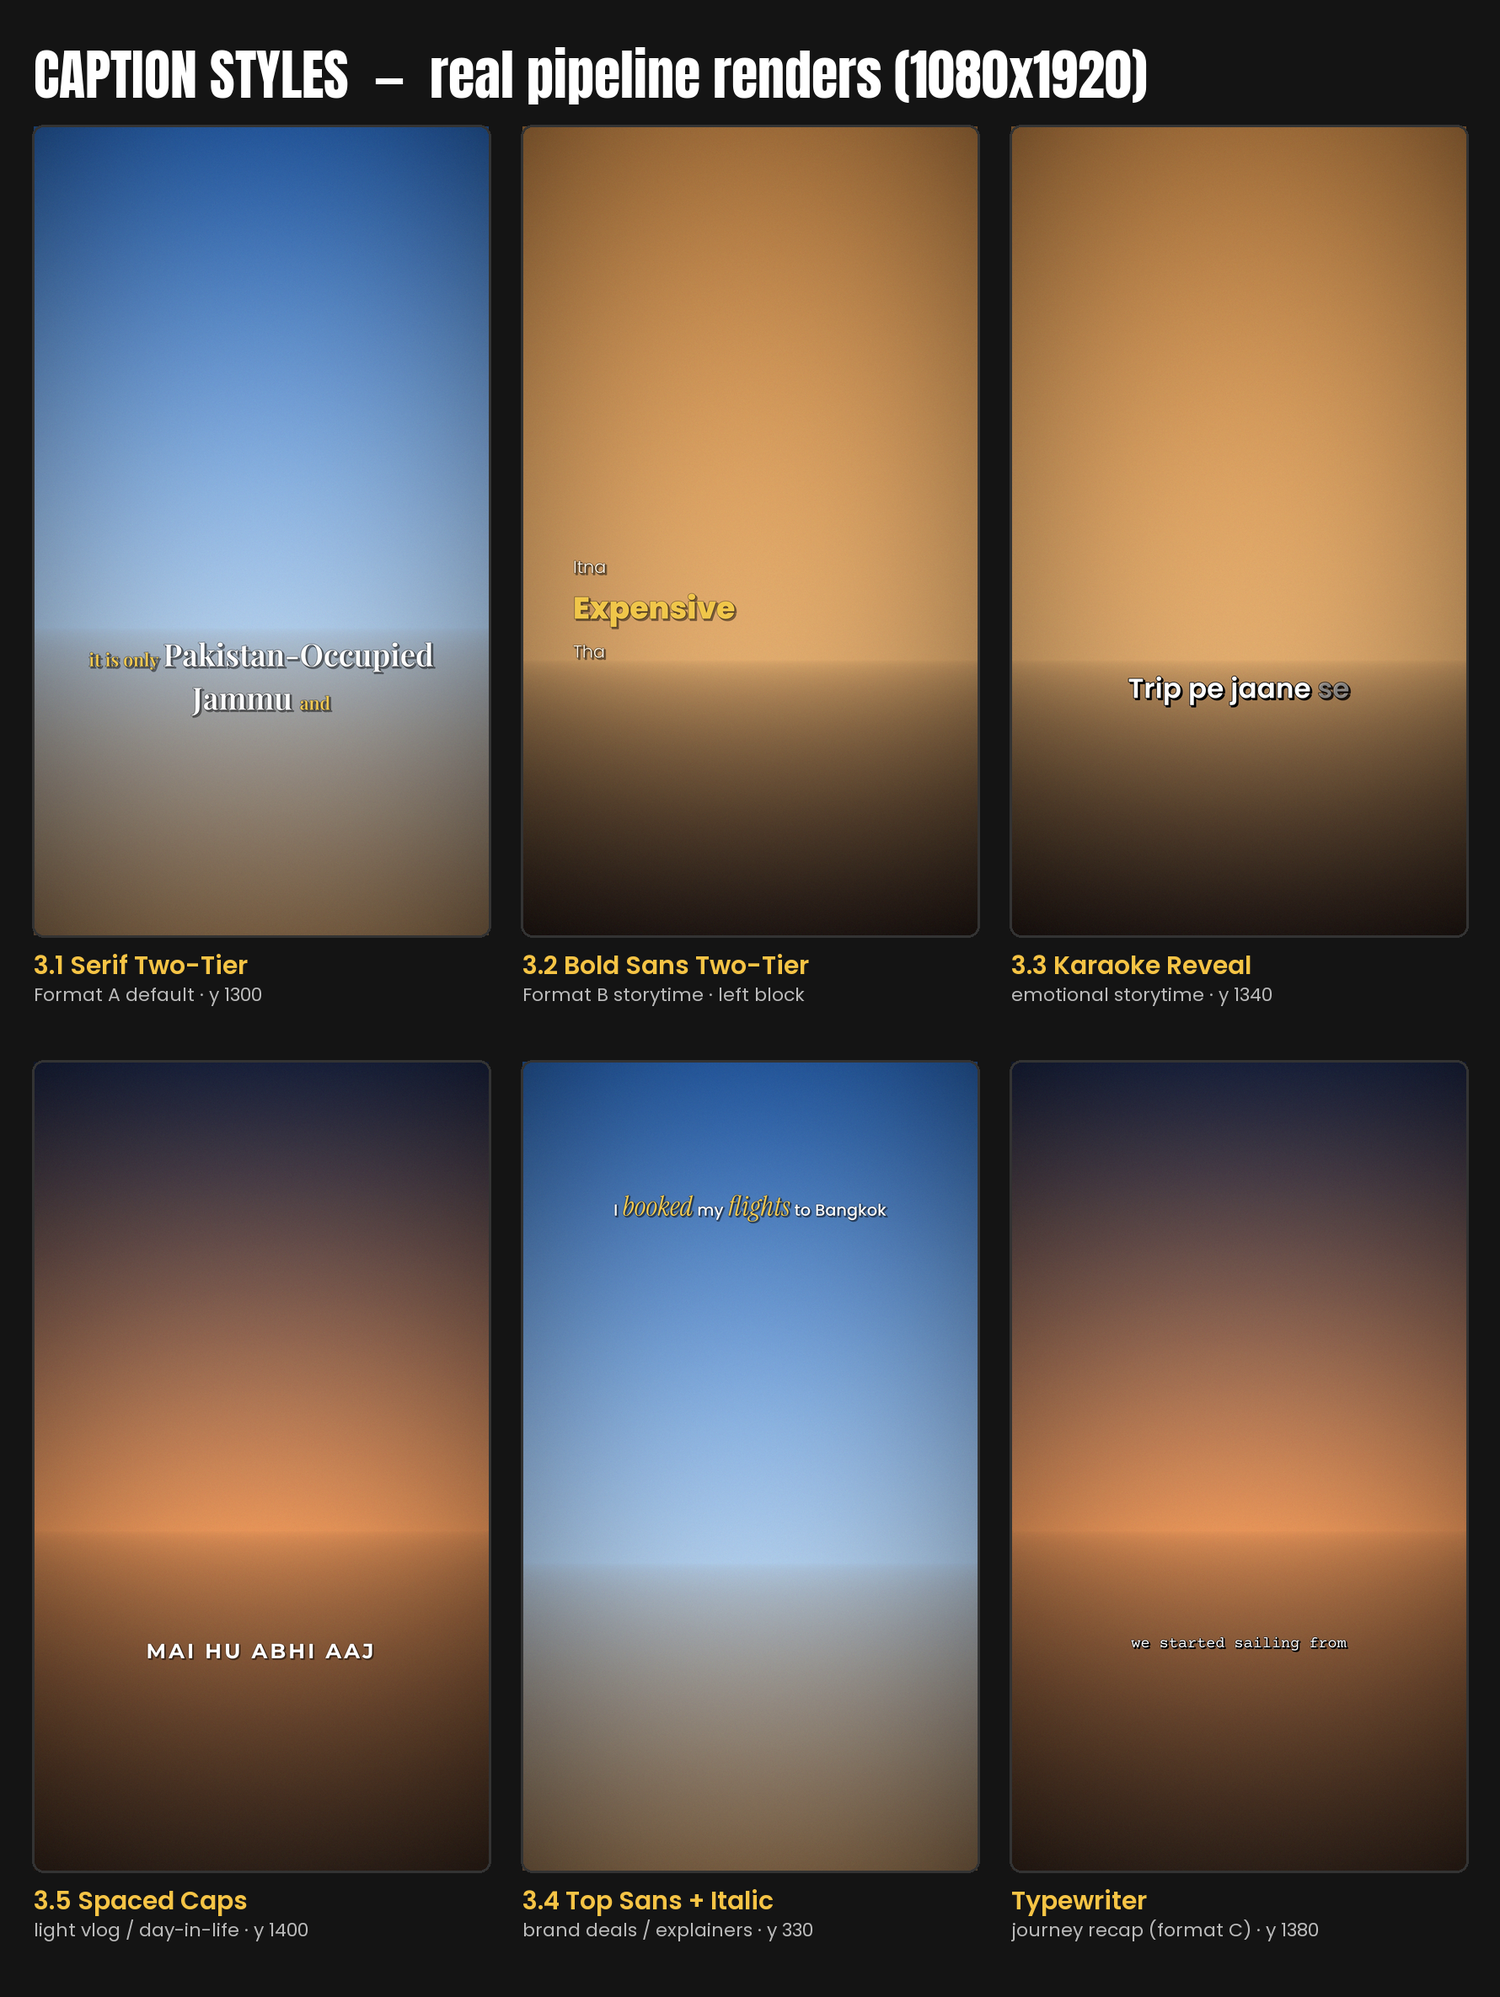
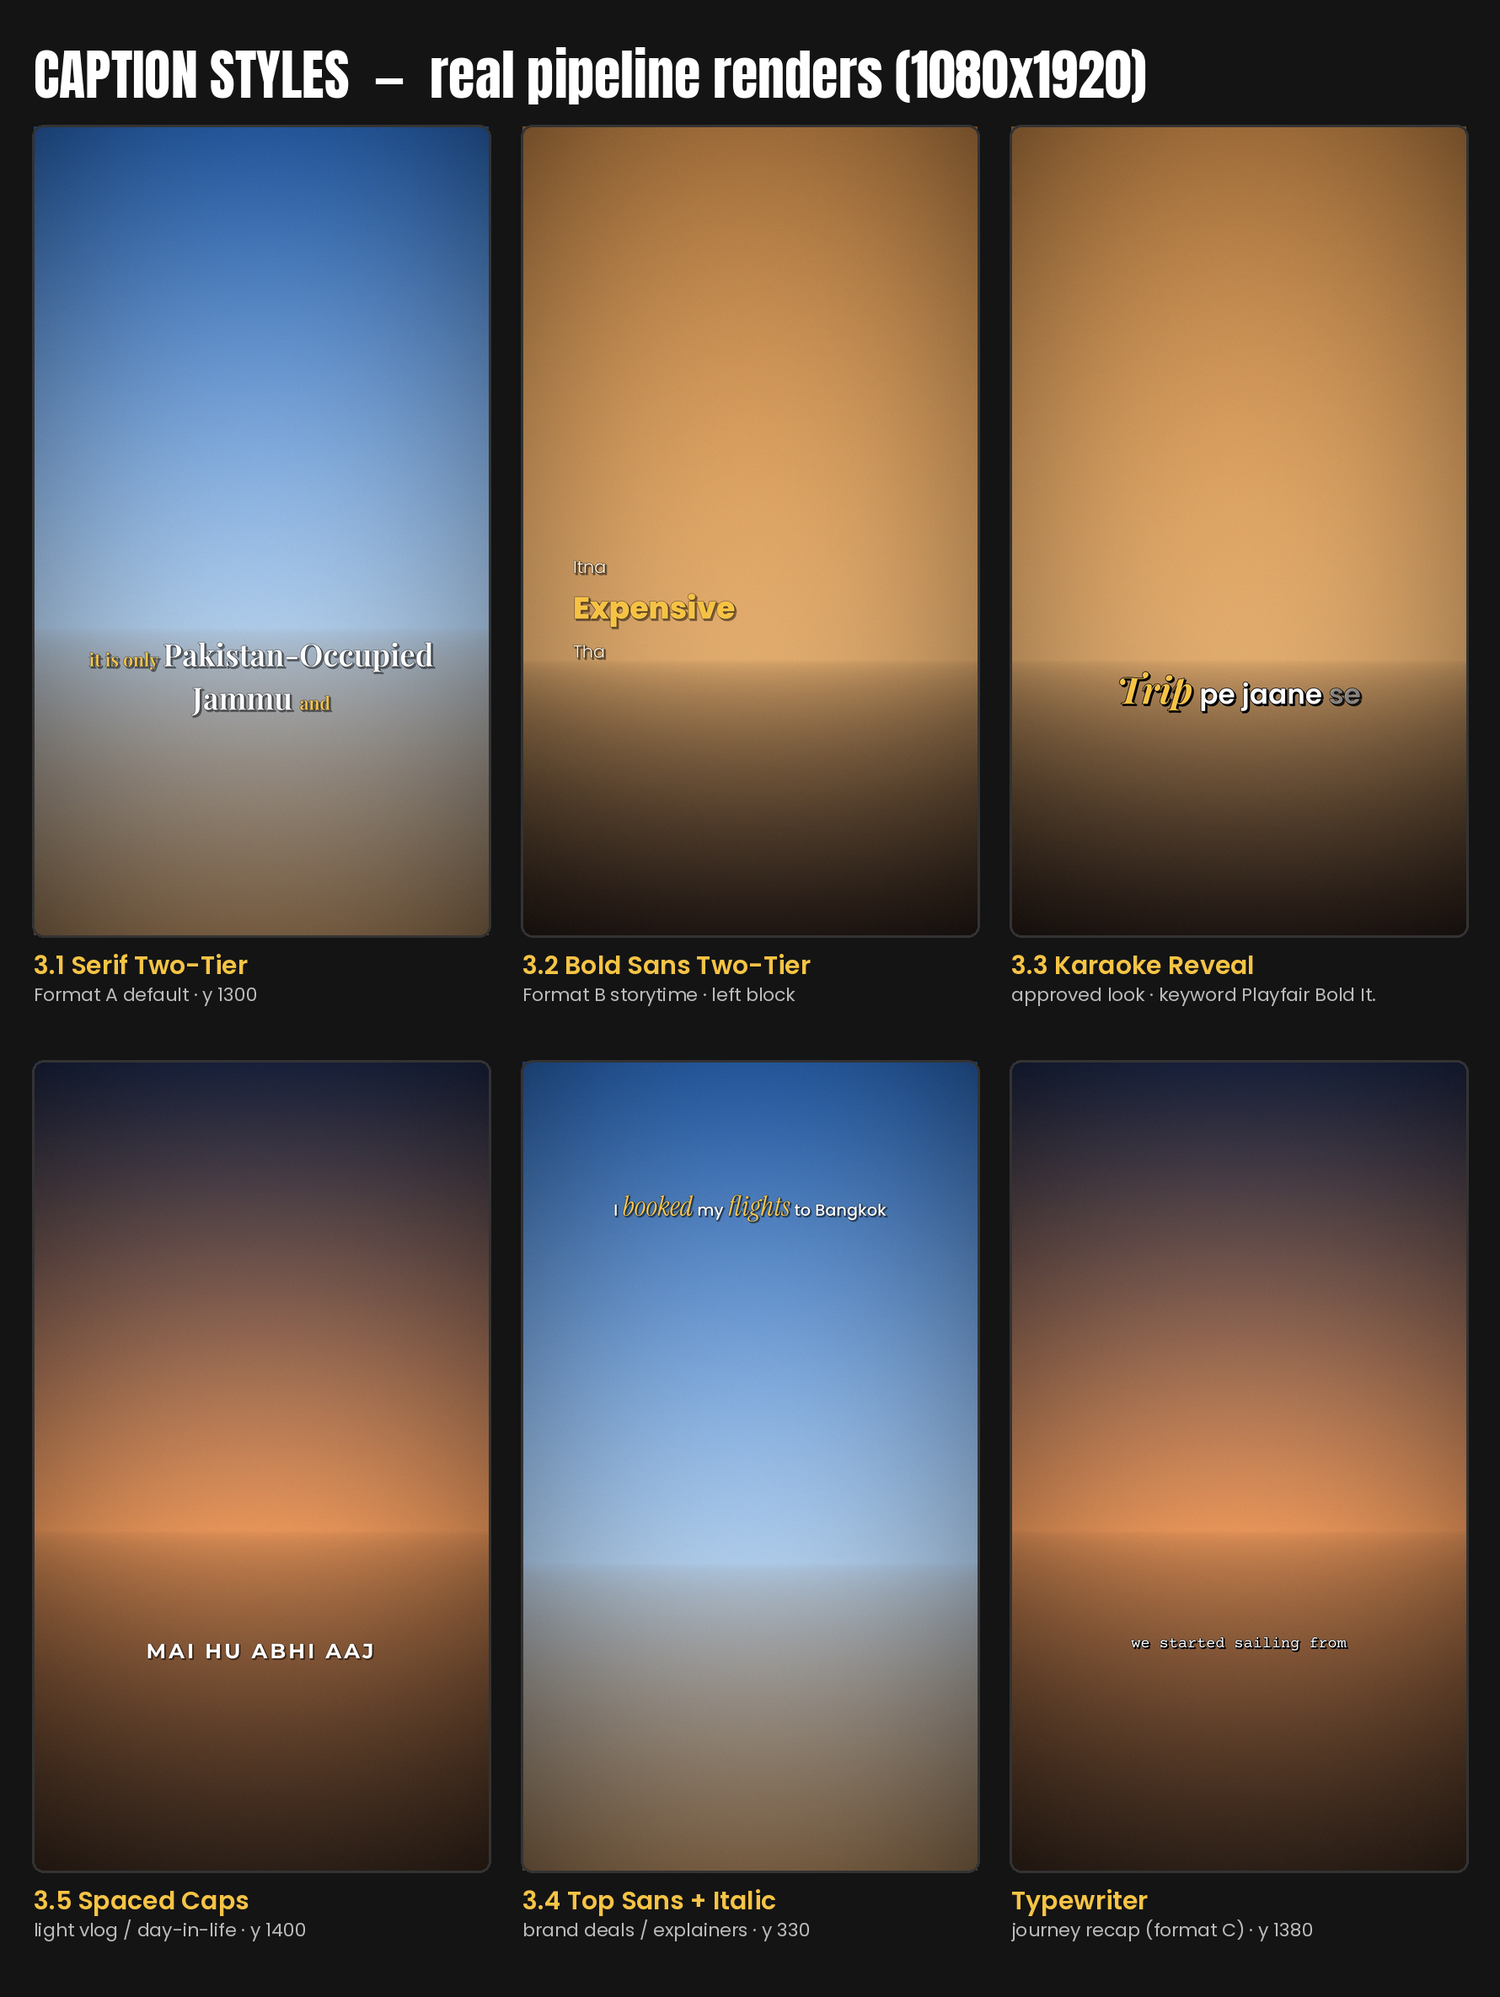
Leave Mumbai v2: smooth 'kiya kya hai' join, keyword highlights, music pulse + SFX
- take-3 clip now starts on 'aur' (20.89 s), so no clipped 'kya hai' before 'aur ye sab humein'
- karaoke keywords (emph) in Playfair Display Bold Italic marigold (pipeline; caption board updated)
- music bed gets a soft pulse and sits at -17 dB ducked; quiet whooshes on room changes, pops on chart/logo

Claude-Session: https://claude.ai/code/session_01FZ262G7aL9Z4djZ2sB29tB

diff --git a/projects/leave_mumbai/align.py b/projects/leave_mumbai/align.py
@@ -13,23 +13,23 @@ P = Path(__file__).resolve().parent
 SR, HOP = 16000, 160
 
 # raw clip -> [(phrase, voiced span start, end)] in source seconds
-# "|" = caption page break (hand-set so every page is a natural phrase)
+# "|" = caption page break (hand-set so every page is a natural phrase); *word* = keyword highlight
 SCRIPT = {
     "LM_02": [("main har roz uthke… |", 19.13, 19.90), ("yahi sochti hoon |", 19.96, 21.04), ("ki bas, |", 21.17, 21.52),
-              ("ab toh Mumbai | chhod dena chahiye. |", 22.38, 23.91)],
-    "LM_03": [("main phir bhi, | rukne ki poori koshish | karti hoon, because |", 22.98, 25.58),
-              ("it's my city, | you know, and I love it. |", 25.90, 27.48)],
-    "LM_04": [("but honestly, |", 4.56, 5.38), ("Mumbai has become |", 5.76, 6.98), ("unlivable. |", 7.21, 7.86)],
-    "LM_05": [("mangroves are being cut, | rivers are being polluted | and honestly, |", 1.35, 4.68),
-              ("aajkal koi | kisi cheez ki respect | hi nahi karta hai yaar. |", 4.81, 7.84)],
-    "LM_06": [("aur har Diwali, | pollution aur bhi | zyada badh jaata hai. |", 5.97, 8.98)],
-    "LM_07": [("13 out of | the world's 20 | most polluted cities | are in India. |", 18.56, 22.40)],
-    "LM_11": [("itna socho ki, | humne exactly kiya kya hai. |", 4.65, 6.92),
-              ("toh is saal, | meri sirf ek request hai. |", 15.85, 17.85),
-              ("aur ye sab humein | laaya kidhar hai? |", 20.56, 23.31)],
-    "LM_12": [("aur jab saans lene ki | jagah chahiye ho, |", 6.37, 8.44), ("main jungle jaati hoon, |", 8.97, 10.06),
-              ("Lost & Free Safaris |", 10.59, 11.30),     # she says "Lost & Free"; "Safaris" = brand (client ask)
-              ("ke saath, |", 11.30, 11.69), ("aap bhi chalna? |", 12.61, 13.32), ("details coming out soon. |", 13.72, 15.05)],
+              ("ab toh *Mumbai* | chhod dena chahiye. |", 22.38, 23.91)],
+    "LM_03": [("main phir bhi, | rukne ki poori *koshish* | karti hoon, because |", 22.98, 25.58),
+              ("it's my *city,* | you know, and I *love* it. |", 25.90, 27.48)],
+    "LM_04": [("but *honestly,* |", 4.56, 5.38), ("Mumbai has become |", 5.76, 6.98), ("*unlivable.* |", 7.21, 7.86)],
+    "LM_05": [("*mangroves* are being cut, | *rivers* are being polluted | and honestly, |", 1.35, 4.68),
+              ("aajkal koi | kisi cheez ki *respect* | hi nahi karta hai yaar. |", 4.81, 7.84)],
+    "LM_06": [("aur har *Diwali,* | *pollution* aur bhi | zyada badh jaata hai. |", 5.97, 8.98)],
+    "LM_07": [("*13* out of | the world's *20* | most *polluted* cities | are in *India.* |", 18.56, 22.40)],
+    "LM_11": [("itna socho ki, | humne *exactly* kiya kya hai. |", 4.65, 6.92),
+              ("toh is saal, | meri sirf ek *request* hai. |", 15.85, 17.85),
+              ("aur ye sab humein | laaya *kidhar* hai? |", 20.93, 23.31)],     # take 3 after "kya hai" (20.58-20.86)
+    "LM_12": [("aur jab *saans* lene ki | jagah chahiye ho, |", 6.37, 8.44), ("main *jungle* jaati hoon, |", 8.97, 10.06),
+              ("*Lost* *&* *Free* *Safaris* |", 10.59, 11.30),     # she says "Lost & Free"; "Safaris" = brand (client ask)
+              ("ke saath, |", 11.30, 11.69), ("aap bhi *chalna?* |", 12.61, 13.32), ("details coming out *soon.* |", 13.72, 15.05)],
 }
 SYL = {"13": 2, "20": 2, "&": 1, "Safaris": 1, "Mumbai": 2, "Diwali": 3, "unlivable": 4, "mangroves": 2,
        "pollution": 3, "polluted": 3, "exactly": 3, "honestly,": 3, "respect": 2, "request": 2, "it's": 1,
@@ -62,6 +62,8 @@ def align_clip(src, phrases):
                 brk[-1] = True
             else:
                 words.append(tk); brk.append(False)
+        emph = [w.startswith("*") and w.endswith("*") and len(w) > 1 for w in words]
+        words = [w.strip("*") if e else w for w, e in zip(words, emph)]
         f0, f1 = int(s0 * 100), int(s1 * 100)
         voiced = np.where(e[f0:f1] > floor)[0] + f0
         if len(voiced) < len(words):
@@ -75,8 +77,8 @@ def align_clip(src, phrases):
             if hi > lo:
                 starts[k] = lo + int(np.argmin(e[lo:hi]))
         ends = starts[1:] + [voiced[-1] + 1]
-        for w, br, a, b in zip(words, brk, starts, ends):
-            out.append({"text": w, "start": a / 100, "end": max(a / 100 + 0.08, b / 100 - 0.02), "br": br})
+        for w, br, em, a, b in zip(words, brk, emph, starts, ends):
+            out.append({"text": w, "start": a / 100, "end": max(a / 100 + 0.08, b / 100 - 0.02), "br": br, "emph": em})
     return out
 
 def main():
@@ -95,6 +97,8 @@ def main():
                           "end": round(acc + min(c["out"], w["end"]) - c["in"], 3)}
                     if w["br"]:
                         ww["br"] = True
+                    if w["emph"]:
+                        ww["emph"] = True
                     words.append(ww)
         acc += dur
     (P / "words.json").write_text(json.dumps(words, indent=1, ensure_ascii=False) + "\n", encoding="utf-8")

diff --git a/projects/leave_mumbai/prep.py b/projects/leave_mumbai/prep.py
@@ -170,7 +170,23 @@ def music(path, dur, t_lift):
                 pl = (np.sin(2 * np.pi * f(m) * tt2) + 0.3 * np.sin(4 * np.pi * f(m) * tt2)) * np.exp(-tt2 / 0.35) * 0.09
                 L = min(L, n - i0); out[0, i0:i0 + L] += pl[:L] * 0.8; out[1, i0:i0 + L] += pl[:L]
         t0 += bar; k += 1
-    out = sosfilt(butter(2, [60, 9000], "bandpass", fs=SR, output="sos"), out, axis=1)
+    # soft pulse so the bed doesn't feel flat: gentle kick on beats 1 and 3, a light shaker on the 8ths
+    beat = 60 / 76
+    kick_t = np.arange(int(0.35 * SR)) / SR
+    kick = np.sin(2 * np.pi * np.cumsum(55 + 70 * np.exp(-kick_t / 0.03)) / SR) * np.exp(-kick_t / 0.12) * 0.22
+    sh_n = int(0.08 * SR)
+    shaker = sosfilt(butter(2, 6500, "highpass", fs=SR, output="sos"), rng.standard_normal(sh_n)) * np.exp(-np.arange(sh_n) / SR / 0.02) * 0.035
+    tb = 0.0; kb = 0
+    while tb < dur - 0.4:
+        i0 = int(tb * SR)
+        if kb % 2 == 0:
+            L = min(len(kick), n - i0); out[:, i0:i0 + L] += kick[:L]
+        for half in (0, 0.5):
+            j0 = int((tb + half * beat) * SR); L = min(sh_n, n - j0)
+            if L > 0:
+                out[0, j0:j0 + L] += shaker[:L] * (0.7 if half else 0.5); out[1, j0:j0 + L] += shaker[:L] * (0.5 if half else 0.7)
+        tb += beat; kb += 1
+    out = sosfilt(butter(2, [45, 9000], "bandpass", fs=SR, output="sos"), out, axis=1)
     lift = np.clip((t - t_lift) / 1.5, 0, 1) * 0.35 + 0.65                                # louder after the lift
     out *= lift
     out /= np.abs(out).max() + 1e-9; out *= 0.8
@@ -192,7 +208,13 @@ def main():
     # write the overlay/sfx timing back into edit.json
     edit["overlays"] = [{"src": "build/chart.mov", "at": round(CH_IN, 3), "x": CH_X - 4, "y": CH_Y - 4},
                         {"src": "build/logo.mov", "at": round(POP_IN, 3), "x": CARD_X - 4, "y": CARD_Y - 4}]
-    edit["sfx"] = [{"src": "../../sfx_library/msg_soft_pop.mp3", "at": round(POP_IN, 3), "gain_db": -14}]
+    sfx = [{"src": "../../sfx_library/msg_soft_pop.mp3", "at": round(POP_IN, 3), "gain_db": -14},
+           {"src": "../../sfx_library/msg_soft_pop.mp3", "at": round(CH_IN, 3), "gain_db": -16}]
+    for i, c in enumerate(edit["clips"]):              # a quiet air whoosh where the room/setting changes
+        if c.get("_whoosh") and starts[i] > 0.3:
+            sfx.append({"src": "../../sfx_library/dl_2026_11/swoosh_short_wind.mp3", "at": round(starts[i] - 0.18, 3),
+                        "gain_db": -21})
+    edit["sfx"] = sfx
     (P / "edit.json").write_text(json.dumps(edit, indent=2, ensure_ascii=False) + "\n", encoding="utf-8")
     print(f"reel {acc:.2f}s · chart {CH_IN:.2f}-{CH_OUT:.2f} · logo {POP_IN:.2f}-{POP_OUT:.2f} · lift {cue['lift']:.2f}")
 

diff --git a/pipeline/isha.py b/pipeline/isha.py
@@ -465,6 +465,7 @@ SIZE = {
     "serif_key": 103, "serif_small": 60,        # iffy: "Pakistan-Occupied" = 59% width (fillers 58%)
     "sans_key": 128, "sans_small": 73,          # brinda orca: "Expensive" = 35% (fillers 57%)
     "karaoke": 115,                             # brinda 7.4M: "Trip pe Jaane se" = 50%
+    "karaoke_key": 124,                         # keyword (emph) in karaoke: Playfair Bold Italic marigold
     "caps": 77,                                 # brinda Japan: "MAI HU ABHI AAJ" = 49%
     "top": 68, "top_accent": 86,                # brinda IndiGo: "I booked my flights" = 34%
     "mono": 49,                                 # sailing 21M: "we started sailing from" = 47%
@@ -608,7 +609,12 @@ def caption_events(words, style, y=None, until=None):
             body = []
             for w in page:
                 dt = int((w["start"] - start) * 1000)
-                body.append(f"{{\\1c{C['grey']}\\alpha&H30&\\t({dt},{dt + 1},\\1c{C['chalk']}\\alpha&H00&)}}{ass_escape(w['text'])} ")
+                if w.get("emph"):                     # keyword: Playfair Bold Italic, marigold, a touch bigger
+                    body.append(f"{{{fn_tag('serif_bold')}\\i1\\fs{SIZE['karaoke_key']}\\1c{C['grey']}\\alpha&H30&"
+                                f"\\t({dt},{dt + 120},\\1c{C['marigold']}\\alpha&H00&)}}{ass_escape(w['text'])}"
+                                f"{{{fn_tag('sans_semi')}\\i0\\fs{SIZE['karaoke']}}} ")
+                else:
+                    body.append(f"{{\\1c{C['grey']}\\alpha&H30&\\t({dt},{dt + 1},\\1c{C['chalk']}\\alpha&H00&)}}{ass_escape(w['text'])} ")
             evs.append(ev(start, end, "Sans", f"{{\\an5\\pos(540,{y or 1340})\\fad(40,0)}}" + "".join(body).rstrip()))
         elif style == "caps":
             txt = " ".join(ass_escape(w["text"]).upper() for w in page)

diff --git a/pipeline/brandkit.py b/pipeline/brandkit.py
@@ -79,8 +79,8 @@ def caption_board(tmp):
          "3.1 Serif Two-Tier", "Format A default · y 1300"),
         ("sans", "room", 0.8, seq(["Itna", "Expensive", "Tha"], emph=("Expensive",)),
          "3.2 Bold Sans Two-Tier", "Format B storytime · left block"),
-        ("karaoke", "room", 0.75, seq(["Trip", "pe", "jaane", "se"]),
-         "3.3 Karaoke Reveal", "emotional storytime · y 1340"),
+        ("karaoke", "room", 0.75, seq(["Trip", "pe", "jaane", "se"], emph=("Trip",)),
+         "3.3 Karaoke Reveal", "approved look · keyword Playfair Bold It."),
         ("caps", "dusk", 0.8, seq(["mai", "hu", "abhi", "aaj"]),
          "3.5 Spaced Caps", "light vlog / day-in-life · y 1400"),
         ("top", "sky", 1.5, seq(["I", "booked", "my", "flights", "to", "Bangkok"], step=0.2, emph=("booked", "flights")),

diff --git a/projects/leave_mumbai/README.md b/projects/leave_mumbai/README.md
@@ -1,6 +1,6 @@
 # Leave Mumbai reel (R1) — rebuilt from Isha's raw clips
 
-**Final:** `out/leave_mumbai.mp4` (42.4 s, 1080×1920, 30 fps, −14 LUFS) + `_clean.mp4`, `.srt`, `_cover.png`.
+**Final:** `out/leave_mumbai.mp4` (42.0 s, 1080×1920, 30 fps, −14 LUFS) + `_clean.mp4`, `.srt`, `_cover.png`.
 
 Raw clips: the client's Google Photos album → `inbox/leave_mumbai/LM_01–12.MOV` (4K HDR, 60 fps; not in git).
 Target edit: `bhai dooj/R1_LeaveMumbai_C_captions_sfx_transitions_original_color.mp4`, used only as the
@@ -18,7 +18,9 @@ python pipeline/isha.py render projects/leave_mumbai/edit.json --stage finish
 
 ## Look (client-approved Bhai Dooj look, `projects/bhai_dooj/REEL_SPEC.md`)
 - **Captions:** karaoke, Poppins SemiBold 115, grey → white as spoken, y 1340. Every page break is set by
-  hand ("|" in `align.py`) so each page is one natural phrase.
+  hand ("|" in `align.py`) so each page is one natural phrase. **Keywords** (`*word*` in `align.py`, one per page:
+  Mumbai, koshish, city, love, unlivable, mangroves, rivers, respect, Diwali, pollution, 13, 20, polluted, India,
+  request, exactly, kidhar, saans, jungle, Lost & Free Safaris, chalna, soon) in Playfair Display Bold Italic, marigold.
 - **Hook (0–2.6 s):** label "every morning, I want to" (Playfair Bold, hard shadow) over **LEAVE MUMBAI** (Anton, sindoor).
 - **Chart (21.7–25.8 s):** IQAir 2024 donut, India 13 of the world's 20 most polluted cities, "India's air: over
   10× the WHO safe limit", small source credit. Data: IQAir 2024 World Air Quality Report.
@@ -27,7 +29,9 @@ python pipeline/isha.py render projects/leave_mumbai/edit.json --stage finish
   added as the brand name, per the client).
 - **Grade:** `lift` (luma contrast +6 %, +1 % brightness, +3 % saturation, fine sharpening): no warmth change,
   so she isn't pale or yellow.
-- **Music:** original calm pad at −21 dB, ducked under her voice; opens up on "main jungle jaati hoon".
+- **Music:** original calm pad with a soft pulse (gentle kick + light shaker) at −17 dB, ducked under her voice;
+  opens up on "main jungle jaati hoon". **SFX:** quiet air whoosh (−21 dB) on each room change, soft pop on the
+  chart and the logo card.
 - **Structure:** 16 clips, hard cuts, punch-ins 1.08 on every 2nd cut from the same setup. It ends on "main har
   roz uthke…" and loops into "yahi sochti hoon", the cut on a clean silence.
 
@@ -39,6 +43,6 @@ python pipeline/isha.py render projects/leave_mumbai/edit.json --stage finish
 | 6–7 | LM_05 | 1.25–7.98 | mangroves are being cut … hi nahi karta hai yaar |
 | 8 | LM_06 | 5.86–9.10 | aur har Diwali pollution aur bhi zyada badh jaata hai |
 | 9 | LM_07 | 18.45–22.55 | 13 out of the world's 20 most polluted cities are in India |
-| 10–12 | LM_11 | 15.75–17.93 (take 3), 4.55–6.96 (take 1), 20.47–23.42 (take 3) | toh is saal meri sirf ek request hai · itna socho ki humne exactly kiya kya hai · aur ye sab humein laaya kidhar hai |
+| 10–12 | LM_11 | 15.75–17.93 (take 3), 4.55–6.97 (take 1), 20.89–23.42 (take 3, starts on "aur"; its "kya hai" is 20.58–20.86) | toh is saal meri sirf ek request hai · itna socho ki humne exactly kiya kya hai · aur ye sab humein laaya kidhar hai |
 | 13–16 | LM_12 | 6.27–11.82, 12.50–15.20 | aur jab saans lene ki jagah chahiye ho, main jungle jaati hoon, Lost & Free ke saath, aap bhi chalna? details coming out soon |
 | 17 | LM_02 | 19.03–19.92 | main har roz uthke… |

diff --git a/ISHA_REEL_SYSTEM.md b/ISHA_REEL_SYSTEM.md
@@ -45,7 +45,7 @@ The client loved the **Bhai Dooj reel** (captions, bold text, the whole feel). *
 
 | Element | Use | Exact spec |
 |---|---|---|
-| Captions | `karaoke` | Poppins SemiBold 115, words grey `#9A9A9A` → **white** as spoken, centre y 1340, ≤ 4 words/page |
+| Captions | `karaoke` | Poppins SemiBold 115, words grey `#9A9A9A` → **white** as spoken, centre y 1340, ≤ 4 words/page. **Keywords** (`"emph": true`, one per page): **Playfair Display Bold Italic 124, marigold** (client ask, Leave Mumbai). Hand-set page breaks with `"br": true` |
 | Opening title | `chapter` | Anton caps **sindoor `#D7263D`** + Allura script line in white, y 330, first 2.5 s |
 | Person/place labels | `label` | **Playfair Display Bold 70, white, hard drop shadow (5 px, 85% black, no blur), NO box**, `*keyword*` marigold `#F6C445`, y 1060 |
 | End card | `hook` | Poppins Bold 96 white, centre y 960, **on black** after the fade |

diff --git a/share/ISHA_REEL_SYSTEM.md b/share/ISHA_REEL_SYSTEM.md
@@ -45,7 +45,7 @@ The client loved the **Bhai Dooj reel** (captions, bold text, the whole feel). *
 
 | Element | Use | Exact spec |
 |---|---|---|
-| Captions | `karaoke` | Poppins SemiBold 115, words grey `#9A9A9A` → **white** as spoken, centre y 1340, ≤ 4 words/page |
+| Captions | `karaoke` | Poppins SemiBold 115, words grey `#9A9A9A` → **white** as spoken, centre y 1340, ≤ 4 words/page. **Keywords** (`"emph": true`, one per page): **Playfair Display Bold Italic 124, marigold** (client ask, Leave Mumbai). Hand-set page breaks with `"br": true` |
 | Opening title | `chapter` | Anton caps **sindoor `#D7263D`** + Allura script line in white, y 330, first 2.5 s |
 | Person/place labels | `label` | **Playfair Display Bold 70, white, hard drop shadow (5 px, 85% black, no blur), NO box**, `*keyword*` marigold `#F6C445`, y 1060 |
 | End card | `hook` | Poppins Bold 96 white, centre y 960, **on black** after the fade |
